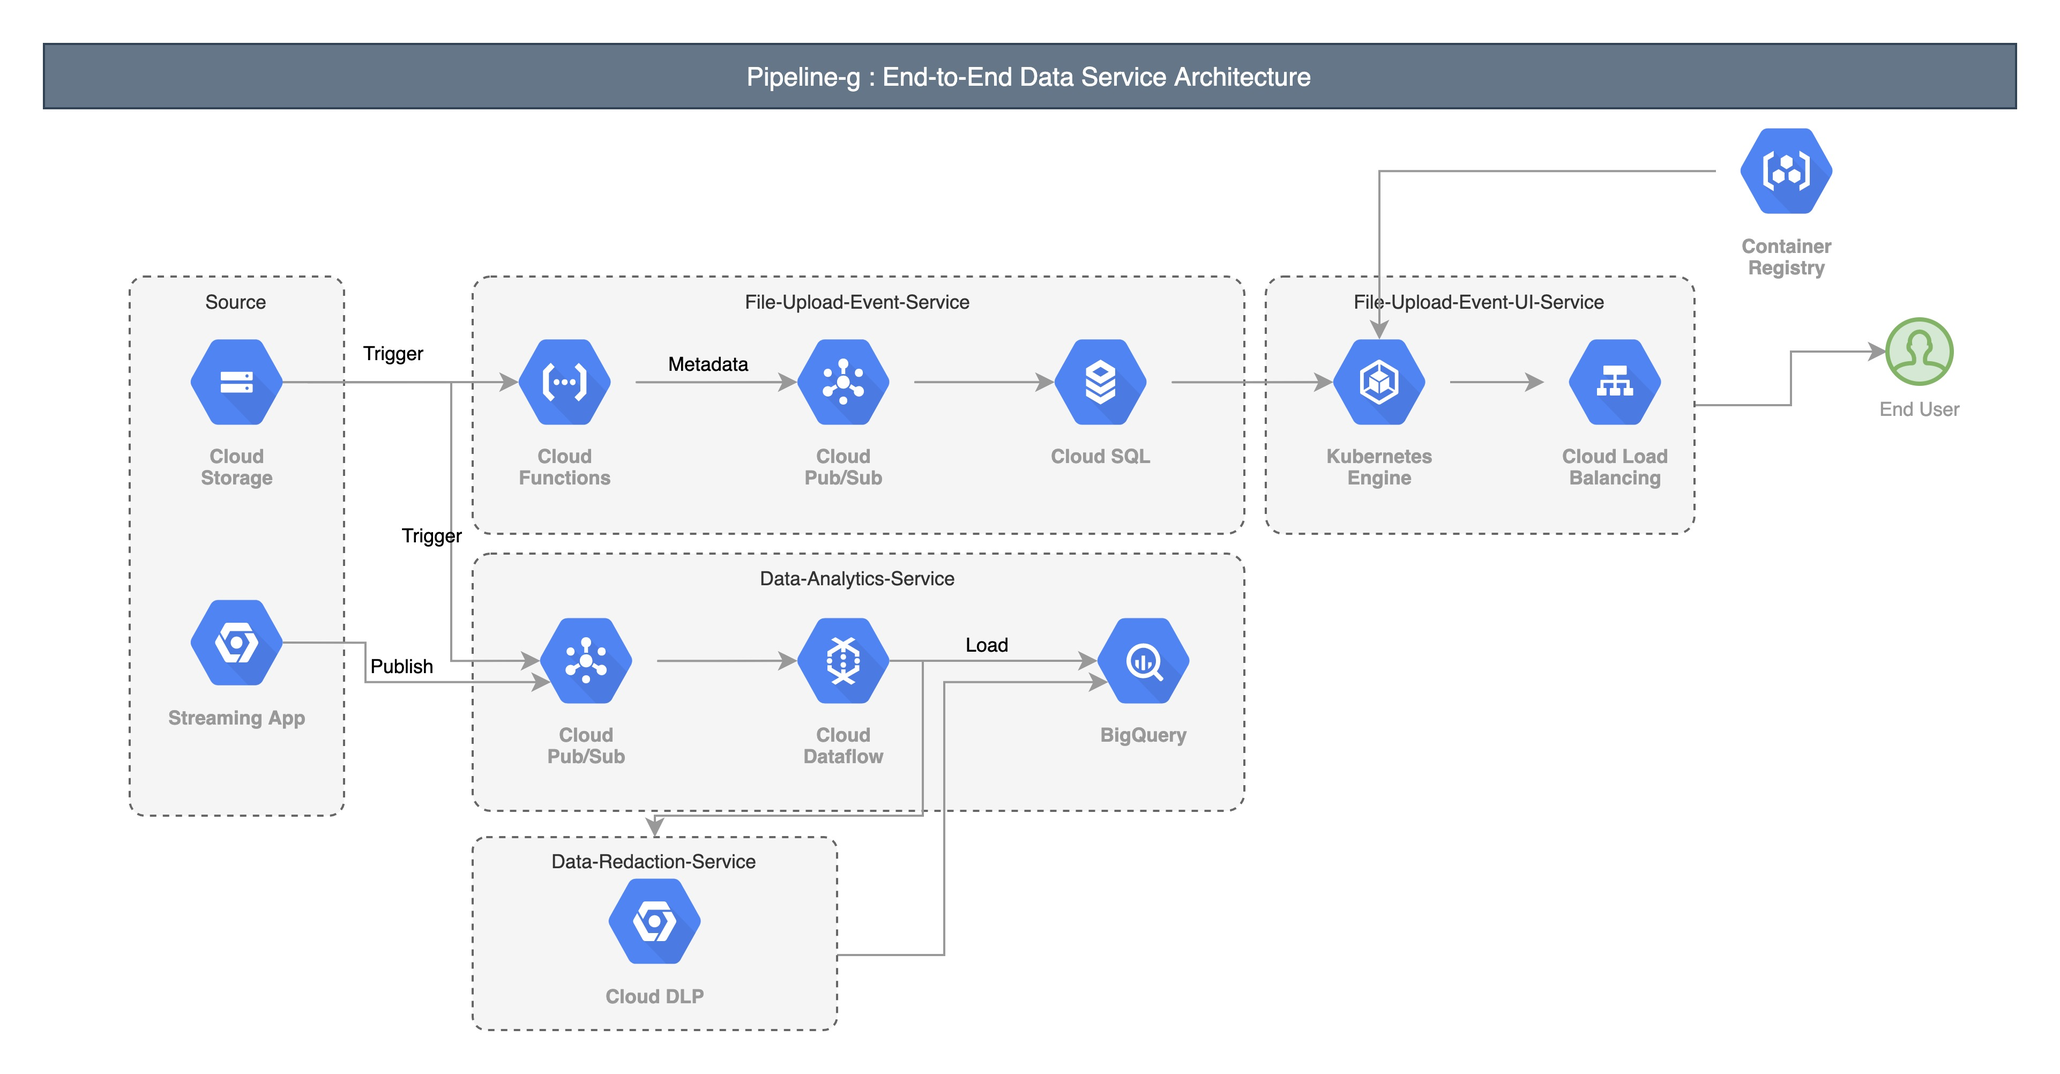
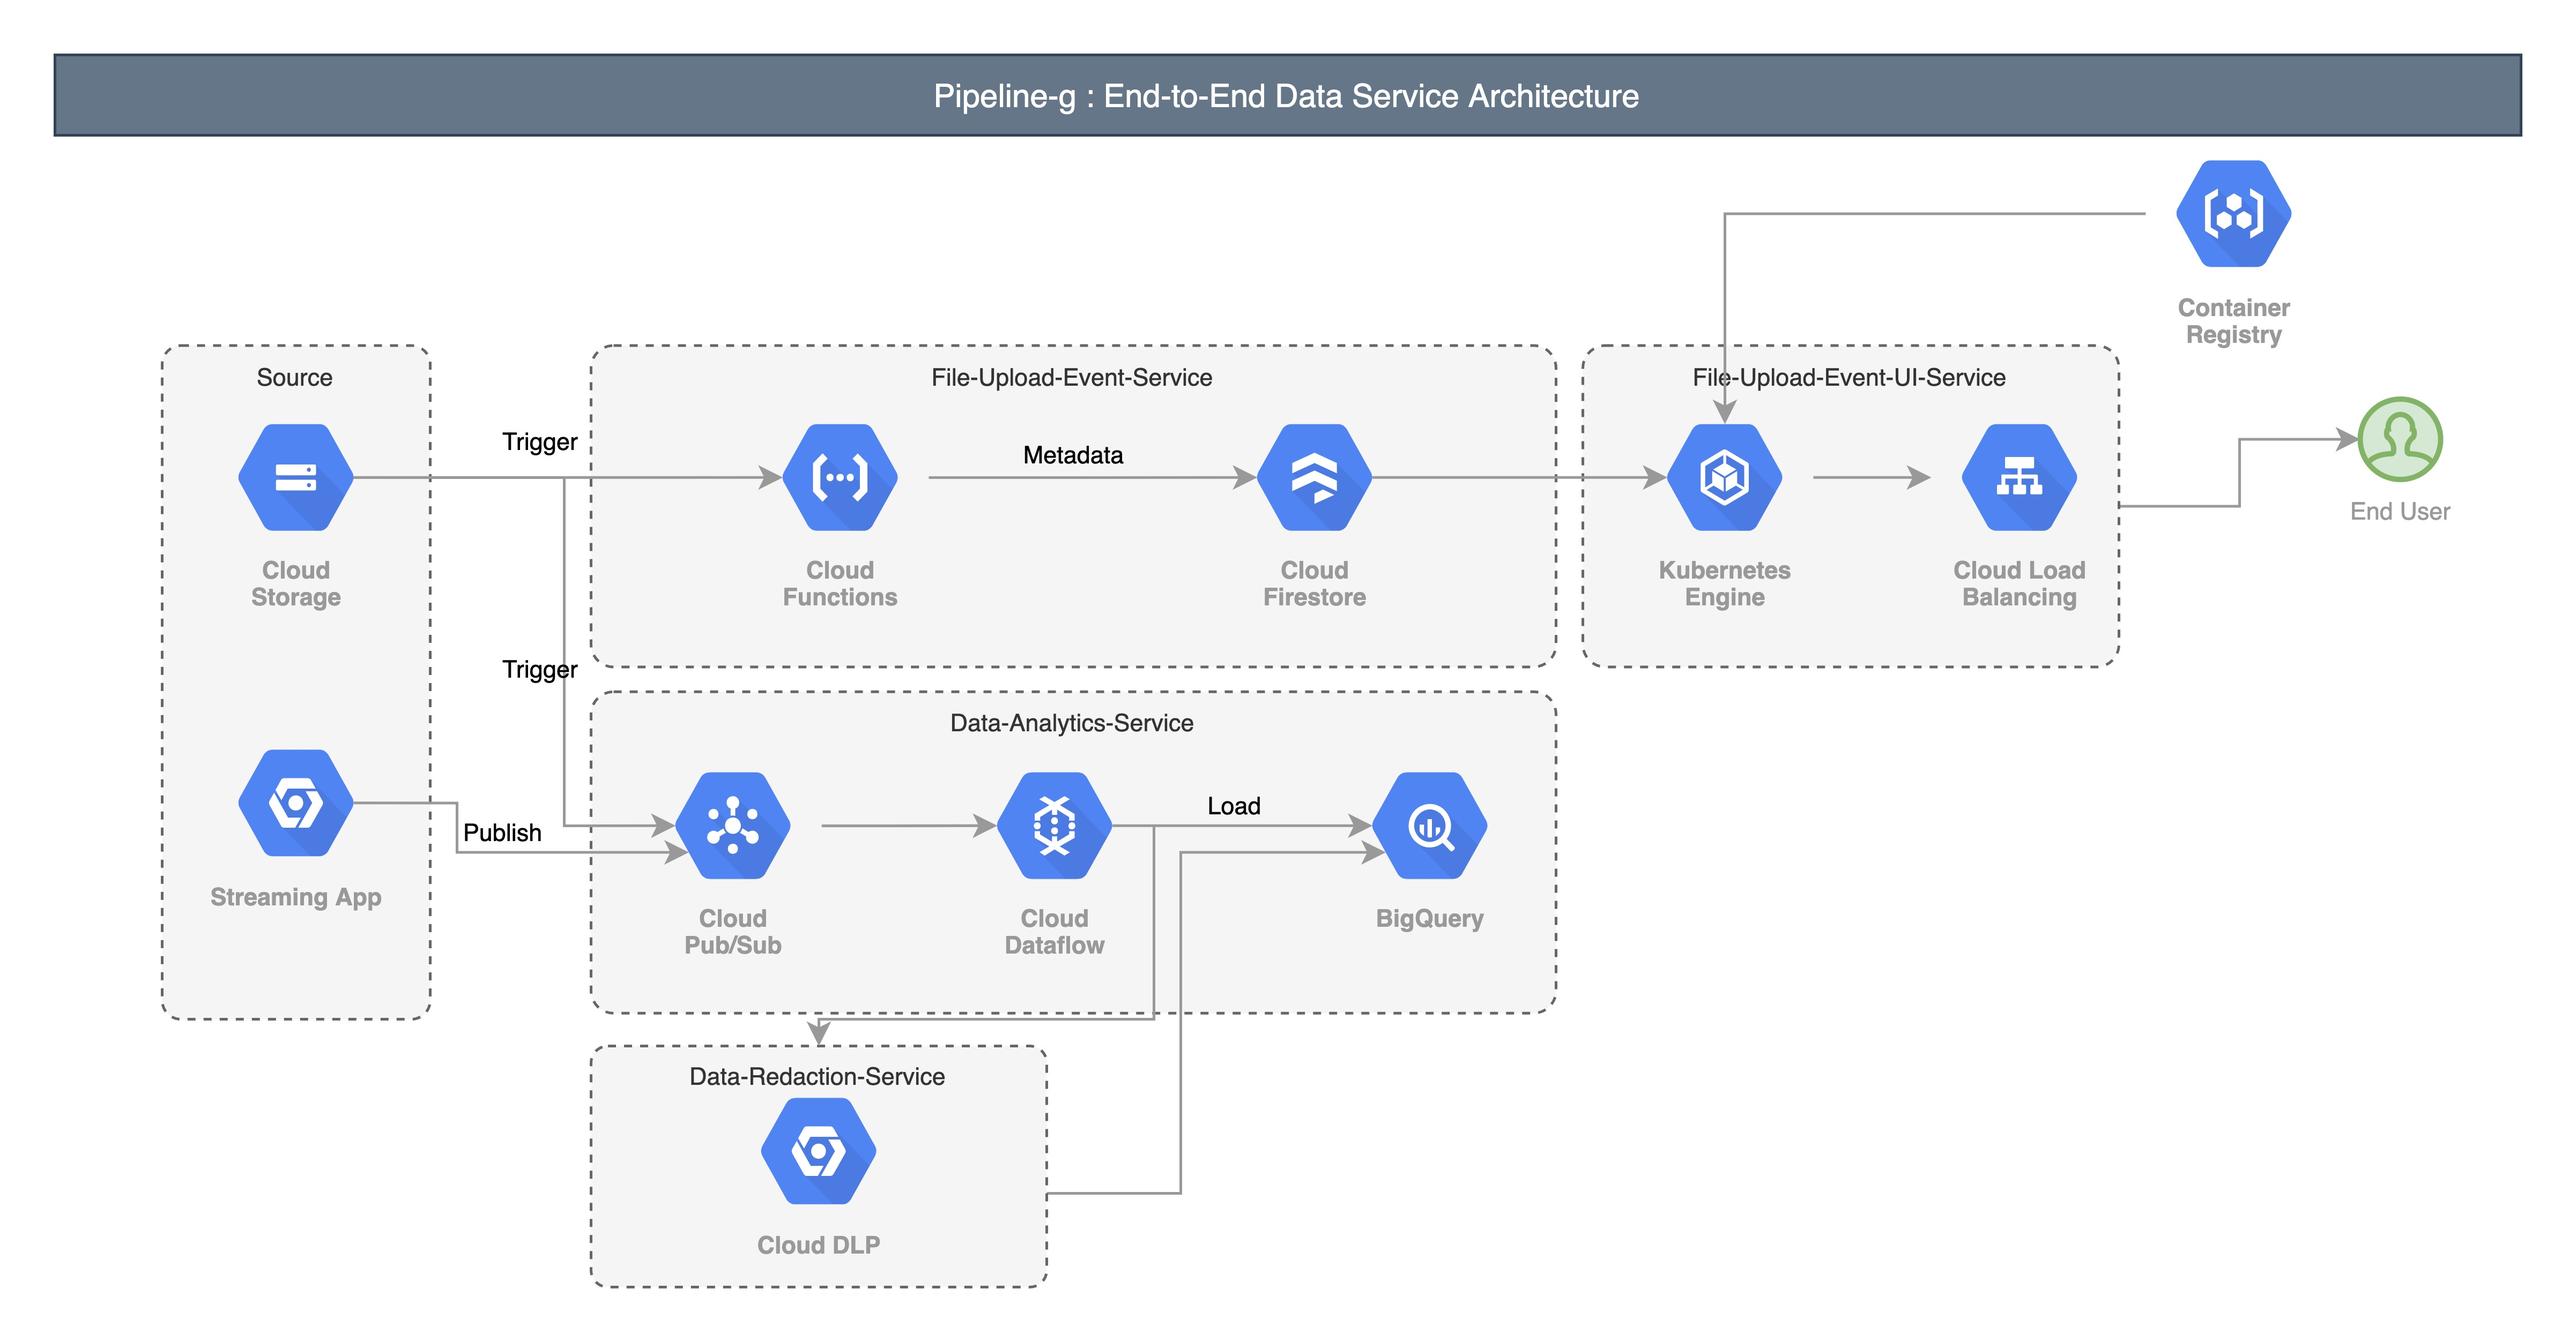
adding data read to pubsub v0.1

Changed region(s): [[0.2497, 0.3094, 0.437, 0.4641], [0.4683, 0.3094, 0.5619, 0.4641], [0.1873, 0.3094, 0.2185, 0.3403]]

diff --git a/app/fileupload_event_service_read_pubsub/main.py b/app/fileupload_event_service_read_pubsub/main.py
@@ -1,0 +1,71 @@
+import os 
+import json
+from google.cloud import pubsub_v1
+import pandas as pd
+
+'''
+    This cloud function reads the data from the cloud bucket into Pubsub for further processing
+'''
+
+PROJECT_ID = os.environ['GOOGLE_CLOUD_PROJECT']
+TOPIC_PATH = "eu-file-upload-event-service-data-topic"
+ACCEPTED_FILES=['csv','txt','tsv']
+
+def publish_message(message):
+    '''
+        publish a message to the pub-sub topic
+    '''
+    publisher = pubsub_v1.PublisherClient()
+    topic_path = publisher.topic_path(PROJECT_ID, TOPIC_PATH)
+
+    data = json.dumps(message).encode("utf-8")
+
+    try:
+        future = publisher.publish(topic_path, data)
+        print("Published Message {}".format(data))
+    except Exception as e: 
+        print("Found exception while publishing the message to pub-sub topic {}".format(TOPIC_PATH))
+        raise
+
+
+def read_from_storage(bucket, file, contenttype):
+    '''
+        read from gcs and return a json data
+    '''
+
+    filename = "gcs://{}/{}".format(bucket, file)
+
+    if ACCEPTED_FILES[0] in contenttype:
+        print("Reading csv file. {}".format(filename))
+        df = pd.read_csv(filename, delimiter=",")
+        
+    else:
+        print("File {} not in the accepted list of files parser".format(filename))
+
+    return df.to_json(orient='records')
+
+        
+
+
+def main(event, context):
+    '''
+        main trigger to read data from storage into pubsub
+    '''
+    print("Starting reading data from storage into pubsub")
+
+    eventid = event['md5Hash']
+    contenttype = event['contentType']
+    bucket = event['bucket']
+    file = event['name']
+
+    content = read_from_storage(bucket, file, contenttype)
+
+    message = {
+        "EventID": eventid,
+        "Bucket" : bucket,
+        "File": file, 
+        "ContentType": contenttype,
+        "Content": content
+    }
+
+    publish_message(message)

diff --git a/app/fileupload_event_service_metadata/main.py b/app/fileupload_event_service_metadata/main.py
@@ -1,0 +1,56 @@
+import os
+from google.cloud import firestore
+
+'''
+This cloud function code will detect files uploaded in S3 bucket and generate file metadata information.
+
+Workflow: S3 (raw) -> Cloud Function (upload event) -> Firestore (store the data)
+'''
+
+PROJECT_ID = os.environ['GOOGLE_CLOUD_PROJECT']
+COLLECTION_NAME = "eu-file-upload-event-service-collection"
+
+def add_message(message, event_name):
+    '''
+        Adding message to the firestore
+    '''
+
+    print("Adding message into the firestore")
+    firestore_client = firestore.Client()
+
+    try: 
+        db = firestore_client.collection(COLLECTION_NAME).document(event_name)
+        db.set(message)
+    except Exception as e: 
+        print("Exception found during entering data into firestore. {}".format(e))
+        raise
+
+
+def main(event, context):
+    
+    print("Starting trigger function based on S3 event")
+
+    event_name = "event-{}".format(event['md5Hash'])
+
+    response = {
+        "event":{
+            "EventID": event['md5Hash'],
+            "EventType": "S3",
+            "ContentType": event['contentType'],
+            "Bucket": event['bucket'],
+            "File": event['name'],
+            "File_Size": event['size'],
+            "Metageneration": event['metageneration'],
+            "DownloadLink": event['mediaLink'],
+            "ProjectID": PROJECT_ID,
+            "Created": event['timeCreated'],
+            "Updated": event['updated']
+        }
+    }
+
+    print("Event generated. {}".format(response))
+
+    add_message(response, event_name)
+
+    return response
+

diff --git a/.utils/pdToJson.py b/.utils/pdToJson.py
@@ -1,0 +1,10 @@
+import os
+import pandas as pd
+
+df = pd.read_csv(os.path.join(os.getcwd(),'data/people/people.csv'))
+
+print(df)
+
+result = df.to_json(orient='records')
+
+print(result)
